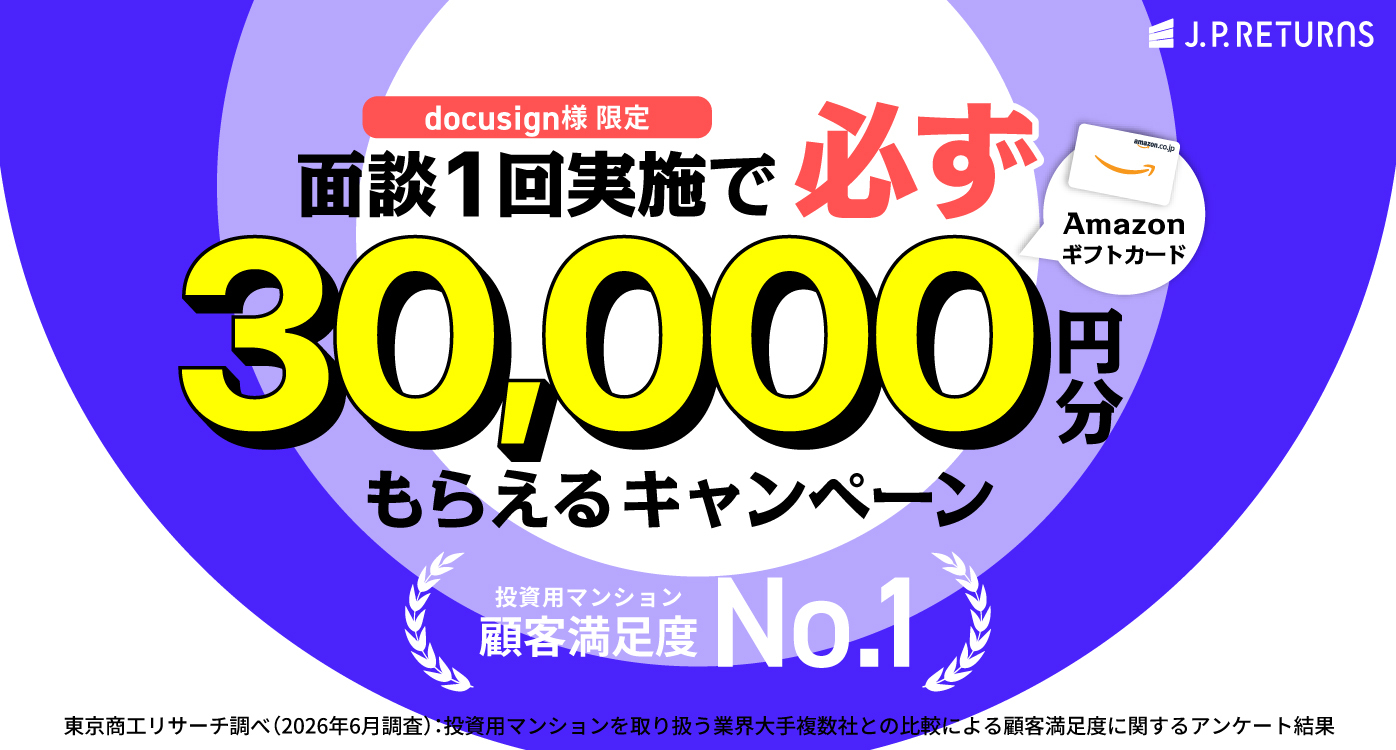
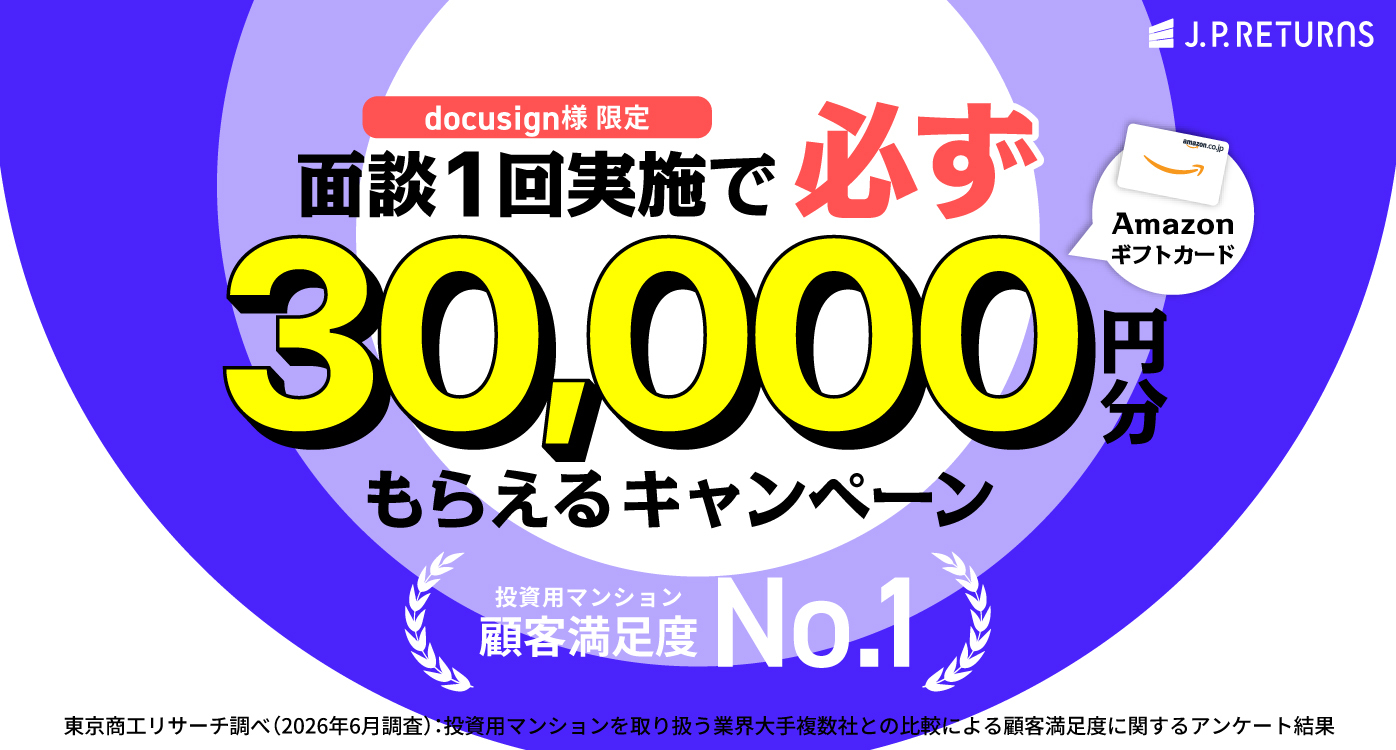
fix: 各キャンペーンタイトルを更新

Changed region(s): [[0.1232, 0.1533, 0.9241, 0.6133]]

diff --git a/tob/docusign/index.html b/tob/docusign/index.html
@@ -54,7 +54,7 @@
 
     <div class="chat-container">
         <div class="chat-header">
-            <div class="chat-header-title">ドキュサイン・ジャパン様限定｜JPリターンズ お問い合わせ窓口</div>
+            <div class="chat-header-title">ドキュサイン・ジャパン様限定キャンペーン</div>
             <div class="progress-bar-container">
                 <div class="progress-bar" id="progressBar"></div>
             </div>

diff --git a/tob/cybozu/index.html b/tob/cybozu/index.html
@@ -54,7 +54,7 @@
 
     <div class="chat-container">
         <div class="chat-header">
-            <div class="chat-header-title">サイボウズ様限定｜JPリターンズ お問い合わせ窓口</div>
+            <div class="chat-header-title">サイボウズ様限定キャンペーン</div>
             <div class="progress-bar-container">
                 <div class="progress-bar" id="progressBar"></div>
             </div>

diff --git a/tob/quanz/index.html b/tob/quanz/index.html
@@ -54,7 +54,7 @@
 
     <div class="chat-container">
         <div class="chat-header">
-            <div class="chat-header-title">クオンツ様限定｜JPリターンズ お問い合わせ窓口</div>
+            <div class="chat-header-title">クオンツ様限定キャンペーン</div>
             <div class="progress-bar-container">
                 <div class="progress-bar" id="progressBar"></div>
             </div>

diff --git a/tob/salesforce/index.html b/tob/salesforce/index.html
@@ -54,7 +54,7 @@
 
     <div class="chat-container">
         <div class="chat-header">
-            <div class="chat-header-title">Salesforce様限定｜JPリターンズ お問い合わせ窓口</div>
+            <div class="chat-header-title">Salesforce様限定キャンペーン</div>
             <div class="progress-bar-container">
                 <div class="progress-bar" id="progressBar"></div>
             </div>

diff --git a/tob/cyberace/index.html b/tob/cyberace/index.html
@@ -54,7 +54,7 @@
 
     <div class="chat-container">
         <div class="chat-header">
-            <div class="chat-header-title">CyberACE様限定｜JPリターンズ お問い合わせ窓口</div>
+            <div class="chat-header-title">CyberACE様限定キャンペーン</div>
             <div class="progress-bar-container">
                 <div class="progress-bar" id="progressBar"></div>
             </div>

diff --git a/tob/google/index.html b/tob/google/index.html
@@ -54,7 +54,7 @@
 
     <div class="chat-container">
         <div class="chat-header">
-            <div class="chat-header-title">Google様限定｜JPリターンズ お問い合わせ窓口</div>
+            <div class="chat-header-title">Google様限定キャンペーン</div>
             <div class="progress-bar-container">
                 <div class="progress-bar" id="progressBar"></div>
             </div>

diff --git a/tob/casm/index.html b/tob/casm/index.html
@@ -54,7 +54,7 @@
 
     <div class="chat-container">
         <div class="chat-header">
-            <div class="chat-header-title">CASM様限定｜JPリターンズ お問い合わせ窓口</div>
+            <div class="chat-header-title">CASM様限定キャンペーン</div>
             <div class="progress-bar-container">
                 <div class="progress-bar" id="progressBar"></div>
             </div>
